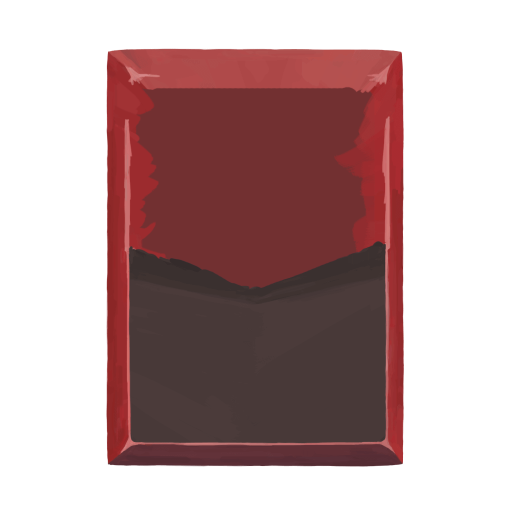
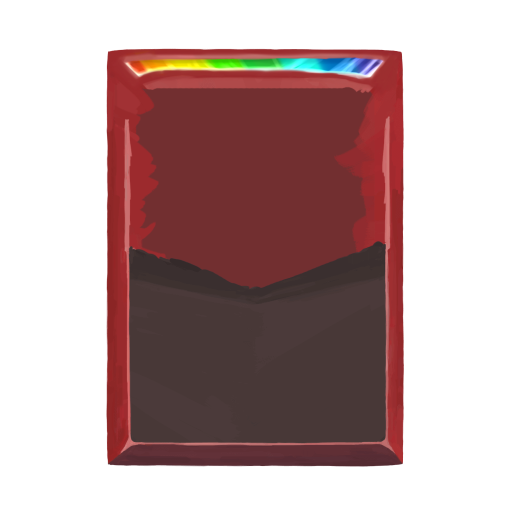
Updated art and cardback

Changed region(s): [[0.2188, 0.0938, 0.7812, 0.1875]]

diff --git a/src/main/java/theprismatic/ThePrismatic.java b/src/main/java/theprismatic/ThePrismatic.java
@@ -4,6 +4,7 @@ import basemod.abstracts.CustomEnergyOrb;
 import basemod.abstracts.CustomPlayer;
 import basemod.animations.SpriterAnimation;
 import com.badlogic.gdx.graphics.Color;
+import com.badlogic.gdx.graphics.Texture;
 import com.badlogic.gdx.graphics.g2d.BitmapFont;
 import com.evacipated.cardcrawl.modthespire.lib.SpireEnum;
 import com.megacrit.cardcrawl.actions.AbstractGameAction;
@@ -18,6 +19,7 @@ import com.megacrit.cardcrawl.characters.AbstractPlayer;
 import com.megacrit.cardcrawl.core.CardCrawlGame;
 import com.megacrit.cardcrawl.core.EnergyManager;
 import com.megacrit.cardcrawl.core.Settings;
+import com.megacrit.cardcrawl.cutscenes.CutscenePanel;
 import com.megacrit.cardcrawl.helpers.CardLibrary;
 import com.megacrit.cardcrawl.helpers.FontHelper;
 import com.megacrit.cardcrawl.helpers.ScreenShake;
@@ -25,6 +27,7 @@ import com.megacrit.cardcrawl.localization.CharacterStrings;
 import com.megacrit.cardcrawl.screens.CharSelectInfo;
 import prismaticmod.cards.*;
 import prismaticmod.relics.BurningRing;
+import prismaticmod.util.TextureLoader;
 
 import java.util.*;
 
@@ -470,7 +473,6 @@ public class ThePrismatic extends CustomPlayer {
                 new EmptyDefend(), new ExhaustingDefend(), new FocusedDefend(), new FrostyDefend(),
                 new LootingDefend(), new SadisticDefend(), new ScrapingDefend(), new ScryingDefend(),
                 new StormyDefend(), new TargetingDefend(), new ToxicDefend());
-        //RetainingStrike.ID, RetainingDefend.ID, InsightfulStrike.ID, InsightfulDefend.ID
         Random rand = new Random();
         return prismaticCards.get(rand.nextInt(prismaticCards.size()));
     }
@@ -560,6 +562,16 @@ public class ThePrismatic extends CustomPlayer {
     @Override
     public String getVampireText() {
         return TEXT[2]; //Generally, the only difference in this text is how the vampires refer to the player.
+    }
+    public Texture getCutsceneBg() {
+        return TextureLoader.getTexture("images/scenes/blueBg.jpg");
+    }
+    public List<CutscenePanel> getCutscenePanels() {
+        List<CutscenePanel> panels = new ArrayList<>();
+        panels.add(new CutscenePanel("images/scenes/defect1.png", "ATTACK_MAGIC_BEAM_SHORT"));
+        panels.add(new CutscenePanel("images/scenes/defect2.png"));
+        panels.add(new CutscenePanel("images/scenes/defect3.png"));
+        return panels;
     }
 
     /*- You shouldn't need to edit any of the following methods. -*/

diff --git a/src/main/java/prismaticmod/relics/RingOfKeys.java b/src/main/java/prismaticmod/relics/RingOfKeys.java
@@ -7,13 +7,13 @@ import theprismatic.ThePrismatic;
 
 import static prismaticmod.BasicMod.makeID;
 
-public class BallOfCards extends BaseRelic {
-    private static final String NAME = "Ball of Cards"; //The name will be used for determining the image file as well as the ID.
+public class RingOfKeys extends BaseRelic {
+    private static final String NAME = "Ring of Keys"; //The name will be used for determining the image file as well as the ID.
     public static final String ID = makeID(NAME); //This adds the mod's prefix to the relic ID, resulting in modID:MyRelic
     private static final RelicTier RARITY = RelicTier.UNCOMMON; //The relic's rarity.
     private static final LandingSound SOUND = LandingSound.FLAT; //The sound played when the relic is clicked.
 
-    public BallOfCards() {
+    public RingOfKeys() {
         super(ID, NAME, ThePrismatic.Enums.CARD_COLOR, RARITY, SOUND);
     }
 

diff --git a/src/main/java/prismaticmod/cards/OnARoll.java b/src/main/java/prismaticmod/cards/OnARoll.java
@@ -8,7 +8,7 @@ import prismaticmod.util.CardStats;
 import theprismatic.ThePrismatic;
 
 public class OnARoll extends BaseCard {
-    public static final String ID = makeID("On A Roll"); //makeID adds the mod ID, so the final ID will be something like "modID:MyCard"
+    public static final String ID = makeID("On a Roll"); //makeID adds the mod ID, so the final ID will be something like "modID:MyCard"
     private static final CardStats info = new CardStats(
             ThePrismatic.Enums.CARD_COLOR, //The card color. If you're making your own character, it'll look something like this. Otherwise, it'll be CardColor.RED or something similar for a basegame character color.
             CardType.POWER, //The type. ATTACK/SKILL/POWER/CURSE/STATUS

diff --git a/src/main/java/prismaticmod/cards/ChimeraForm.java b/src/main/java/prismaticmod/cards/ChimeraForm.java
@@ -1,5 +1,6 @@
 package prismaticmod.cards;
 
+import basemod.helpers.BaseModCardTags;
 import com.megacrit.cardcrawl.actions.common.ApplyPowerAction;
 import com.megacrit.cardcrawl.characters.AbstractPlayer;
 import com.megacrit.cardcrawl.monsters.AbstractMonster;
@@ -22,6 +23,7 @@ public class ChimeraForm extends BaseCard {
     public ChimeraForm() {
         super(ID, info); //Pass the required information to the BaseCard constructor.
         this.isEthereal = true;
+        tags.add(BaseModCardTags.FORM);
     }
 
     @Override

diff --git a/src/main/java/prismaticmod/powers/OnARollPower.java b/src/main/java/prismaticmod/powers/OnARollPower.java
@@ -18,7 +18,7 @@ import static prismaticmod.BasicMod.makeID;
 public class OnARollPower extends TwoAmountPower {
     public AbstractCreature source;
 
-    public static String POWER_ID = makeID("On A Roll");
+    public static String POWER_ID = makeID("On a Roll");
     private static final PowerStrings getPowerStrings = CardCrawlGame.languagePack.getPowerStrings(POWER_ID);
     private static final String NAME = getPowerStrings.NAME;
     private static final String[] powerStrings = getPowerStrings.DESCRIPTIONS;
